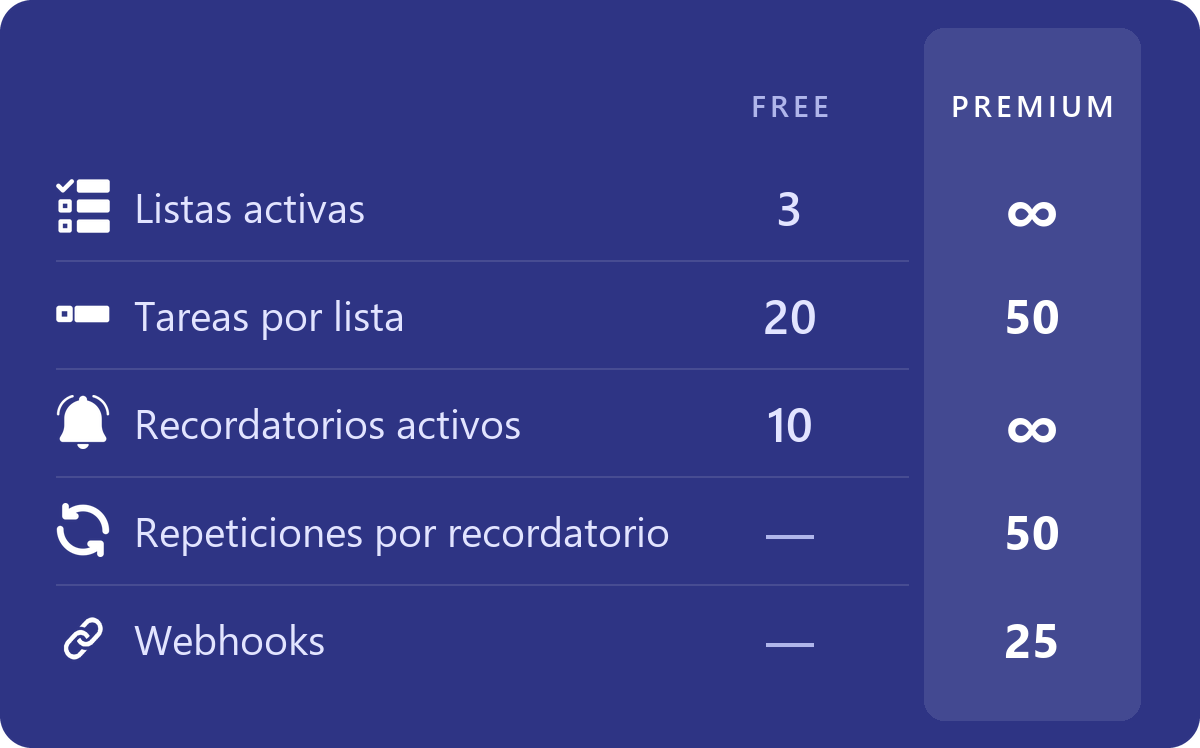
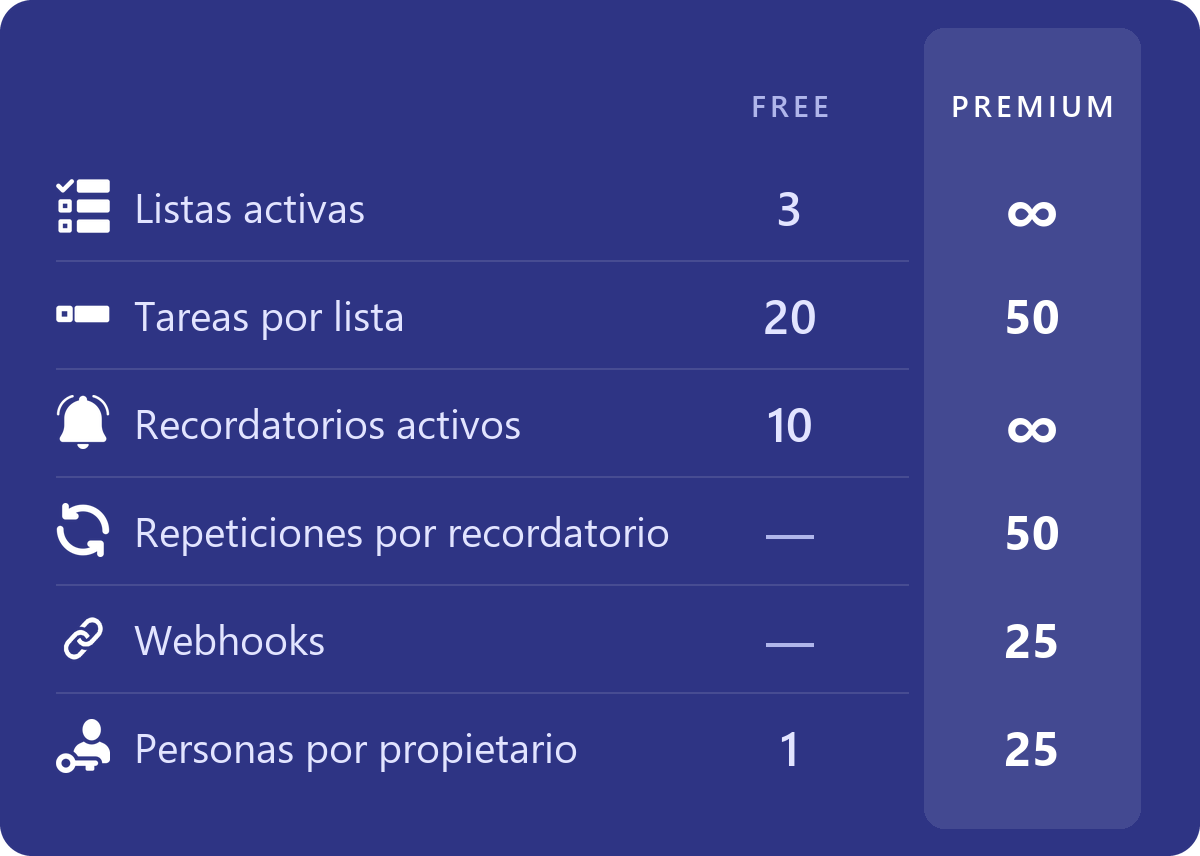
docs: l'owner può essere più persone, con un ruolo creato da TTM
Nella pagina del pannello due sezioni nuove. «Owner: a person, a role, or
several people»: cosa vuol dire ogni scelta, come si usa il menu (come
quello dei tag, modifica dal vivo compresa). «The roles TTM creates»: come
nascono (TTM1, TTM2…, menzionabili, senza permessi), che TTM non li
modifica mai, quando non sono più di TTM (rinominati, con un permesso anche
di canale, con altri membri), quando TTM li cancella, cosa serve (Manage
Roles, 250 ruoli per server).

Premium, beta, limiti noti, concetti, promemoria e release notes con il
nuovo limite; getting-started con il permesso Manage roles, che non si
concede per canale; invite con la maschera nuova. Privacy e GDPR con il
dato nuovo e quando TTM lo dimentica. Card Premium rigenerate con la riga
«persone per owner».

diff --git a/src/content/docs/the-task-list.md b/src/content/docs/the-task-list.md
@@ -92,7 +92,7 @@ The workflow is always the same: **turn a button blue or red, then pick the task
 | Button | Function | <span class="c-blue">Blue (edit)</span> | <span class="c-red">Red (delete)</span> |
 | :---: | :--- | :--- | :--- |
 | <img class="inline-ic" src="/icons/task.png" alt="" /> | **Content** | Change the task text (opens a form). | Delete the task. |
-| <img class="inline-ic" src="/icons/owner.png" alt="" /> | **Owner** | Set or change the task owner (pick a user/role). | Remove the owner. |
+| <img class="inline-ic" src="/icons/owner.png" alt="" /> | **Owner** | Set or change the task owner: one person, one role, or several people (see *Owner* below). | Remove the owner — and its reminder, which has no one left to reach. |
 | <img class="inline-ic" src="/icons/tag.png" alt="" /> | **Tag** | Set the users/roles to notify — pick several at once (see *Two ways to tag* below). | Remove every tag on the task. |
 | <img class="inline-ic" src="/icons/alertW.png" alt="" /> | **Reminder** | Add or edit a reminder (start date and time zone — plus interval and repetitions when recurring reminders are on: a Premium feature, switched on in [Configuration](/docs/configuration/#recurring-reminders)). | Remove the reminder. |
 | <img class="inline-ic" src="/icons/api.png" alt="" /> | **Webhook** | Associate a webhook, so completing/reopening the task fires an HTTP call. | Remove the webhook association from the task. |
@@ -119,14 +119,44 @@ Now the button stays active after each action, and what Tag does depends on one 
 
 <div class="callout"><div class="callout-t">In one line</div><strong>Off</strong>: tagging always overwrites, and you must pick people first. <strong>On</strong>: pick people first to <em>overwrite</em> (assign), or pick the task first to <em>edit its tags live</em>.</div>
 
+### Owner: a person, a role, or several people
+
+The owner is who a task belongs to — who can check it, and who gets its reminder. Pick it in the owner menu:
+
+- **One person** — they own the task, and its reminder reaches them by direct message.
+- **One role** — everyone with that role owns the task: any of them can check it, and its reminder is a message in the list's channel that mentions the role.
+- **Several people** — TTM creates a role for them, gives it to exactly those people and makes it the owner. From then on it works like any role owner. *Several people as owner is a Premium feature: on the Free plan the owner is one person or one role* (see [What Premium unlocks](/docs/premium/)).
+
+People and roles can't be mixed, and you can pick one role at most: a task has one owner.
+
+The owner menu works like the Tag menu (see *Two ways to tag* above). With "keep status" off, pick the owner, then the task. With it on, you can also **pick the task first**, with the menu empty: its owner loads into the menu — for a role TTM created, the people it gave the role to — and every change you confirm applies to that task straight away. Emptying the menu removes the owner — and its reminder — like the red mode does.
+
+### The roles TTM creates
+
+When you give a task to several people, TTM:
+
+- creates a role called **TTM** followed by the first free number — TTM1, TTM2, and so on — **mentionable** and **with no permissions**, at the bottom of the role list;
+- gives it to the people you picked, one at a time: with many people it can take a few seconds;
+- makes it the owner of the task.
+
+Rename it and it becomes one of your server's roles, to use anywhere. A new colour or a new position doesn't change that: TTM would still delete it when no list uses it any more — so to keep a role, rename it.
+
+**TTM never changes a role once it has created it.** Picking different people — one more, one less — creates a new role; picking exactly the same people as the current owner changes nothing. With "keep status" on, the same selection applied to several tasks in a row reuses the role it created for the first one.
+
+**When a role stops being TTM's.** TTM remembers the roles it creates and the people it gave them to. A role stays TTM's only while it still looks the way TTM left it: the same name, no permissions — neither on the server nor on a channel — and the same number of members. Rename it, give it a permission, use it to open a channel, or add or remove a member, and it becomes one of your server's roles. TTM looks when a role would be deleted, and when the owner menu loads its people: a role that's no longer TTM's is never deleted, and the menu shows the role instead of the people. TTM can see *how many* members a role has, but not *who* they are — so if you swap one member for another, it can't tell.
+
+**When TTM deletes a role.** A role TTM created is deleted — from the server, too — when **no list uses it any more**, as owner or as tag, nor any command permission, **and** it still looks TTM's. TTM checks every ten minutes, and never touches a role created less than ten minutes ago. The roles used by a **sealed** list are kept, because the sealed message still shows them, and when the bot is **removed** from a server, every role it created stays there.
+
+**What it needs.** The bot needs the *Manage Roles* permission, which the invite link includes; on a server that added the bot before, an admin may have to grant it to the bot's role, in *Server Settings → Roles* — not on a channel, where the same permission means something else. While the bot doesn't have it, TTM neither creates nor deletes roles. A server can have at most **250 roles** — a Discord limit: when it's reached, TTM can't create the role and says so.
+
 ## Confirming a tag selection — desktop vs mobile
 
-Only the **Tag** menu lets you pick several people at once, and **multi-select menus like this don't apply as you tick** — they wait for you to **confirm** the whole selection. (Single-choice pickers, such as the check selector or the owner menu, apply the moment you pick, so this doesn't concern them.) How you confirm a multi-pick differs by device, and it isn't obvious the first time:
+The **Tag** and **Owner** menus let you pick several at once, and **multi-select menus like these don't apply as you tick** — they wait for you to **confirm** the whole selection. (Single-choice pickers, such as the check selector, apply the moment you pick, so this doesn't concern them.) How you confirm a multi-pick differs by device, and it isn't obvious the first time:
 
 - **On mobile**, a **Save** button appears beneath the open menu. Tap it to apply what you picked.
 - **On desktop**, there is **no Save button**. Instead, **click anywhere outside the menu** to close it — closing it is what applies your selection. If your tags don't seem to take effect, this is almost always why: click away from the dropdown to commit them.
 
-This matters most during tag **live editing**, where each time you close the menu the task updates on the spot — so on desktop, one click outside the menu is what saves each change.
+This matters most during **live editing** of tags or owner, where each time you close the menu the task updates on the spot — so on desktop, one click outside the menu is what saves each change.
 
 ## Editing while others watch
 

diff --git a/src/pages/privacy.md b/src/pages/privacy.md
@@ -20,6 +20,7 @@ TTM only stores what is needed to run task lists inside your server:
 - **Reminders** — dates, intervals, repetitions and the time zone set for the server.
 - **Your personal time zone** — the time zone you pick while creating a reminder, stored against your Discord user ID and reused across servers.
 - **Your direct-message channel** — when you own a task, its reminders reach you by direct message, so the bot keeps the ID of its direct-message channel with you, to deliver them with a single request to Discord. If you don't accept direct messages, it also keeps until when not to try again (six hours after the failed attempt). Both are stored against your Discord user ID, like the time zone; the messages themselves are not stored.
+- **Roles TTM creates** — when a task is given to several people, TTM creates a role and keeps its ID, the name it gave it, the user IDs of the people it gave it to, who asked for it and when: to show those people when the task is edited, and to delete the role when no list uses it any more.
 - **Configuration** — per-server settings such as notification mode, history logging, push option and time zone.
 - **Webhooks** — the HTTP method, URL, headers and body you define, and their association to tasks.
 - **Activity logs** — records of actions performed on lists (who did what, and when), when history logging is enabled.
@@ -42,7 +43,7 @@ We do **not** sell your data. Data is processed by our infrastructure provider *
 
 Data is kept while the bot is present and in use in your server.
 
-**When the bot is removed from a server** we delete its content and operational data: task lists and their tasks, tags, reminders and scheduled reminder events, webhooks and their actions, and the activity history.
+**When the bot is removed from a server** we delete its content and operational data: task lists and their tasks, tags, reminders and scheduled reminder events, webhooks and their actions, the activity history, and the records of the roles TTM created — the roles themselves stay in the server, which manages them from then on.
 
 **What we keep** is the minimum needed to run the service and to measure its adoption: the server ID together with the settings configured for it, the dates the bot joined and left, the command-permission settings, subscription records where applicable, and non-identifying usage counters. **No task content is kept.**
 
@@ -52,7 +53,9 @@ Data is kept while the bot is present and in use in your server.
 
 **You can delete a single list yourself**, without asking us: the **Delete list** button in the list's *More* panel, or `/config lists` when the list's message is no longer there. Deletion is immediate and permanent, and it takes the list's tasks, owners, tags, reminders and activity history with it.
 
-**Seal list**, in the same panel, also removes the list's data from TTM, but leaves its message — and its timeline thread — in the channel as ordinary Discord messages, under your server's control.
+**Seal list**, in the same panel, also removes the list's data from TTM, but leaves its message — and its timeline thread — in the channel as ordinary Discord messages, under your server's control. The roles TTM created for that list stay too, and TTM forgets them.
+
+**A role TTM created** is forgotten — its record and the people it was given to — once no list uses it any more, as owner or as tag: if the role is still as TTM left it (the same name, no permissions, the same number of members), TTM also deletes it from the server; otherwise it leaves it to your server. TTM also forgets the roles of a list when you seal it, and all of them when the bot is removed from the server.
 
 You can request deletion at any time (see [GDPR](/gdpr/)); we may also delete data earlier.
 

diff --git a/src/content/docs/premium.md b/src/content/docs/premium.md
@@ -18,6 +18,7 @@ If you're here from the bot, start with [Free during the beta](/docs/beta/): it 
 | Active reminders | **10** | Unlimited |
 | Repetitions per reminder | — (single reminders only) | 50 |
 | Webhooks | — | 25 \* |
+| People per owner | **1** (a person or a role) | 25 \* |
 
 *These are the planned limits and may be tuned before launch.*
 
@@ -34,6 +35,8 @@ On the free tier the three places are fixed. A list takes one the first time som
 **Active reminders — 10 → unlimited.** Ten reminders *waiting at the same time* — not ten a day. A reminder stops counting the moment it has fired for the last time, so the slot comes back on its own; and a repeating reminder — like one set up during the beta — takes **one** slot, not one per repetition. Ten is plenty for deadlines that matter. It becomes the binding limit when reminders stop being exceptions and become the rhythm of the server — stand-ups, shift handovers, recurring checks on a dozen lists.
 
 **Repetitions per reminder — single only → up to 50.** On the free tier every reminder is a single event: it arrives once, at the time you choose. Recurring reminders — repetitions and an interval — are a Premium feature: one reminder can repeat up to 50 times after the first, a drumbeat for something that genuinely must not be missed. On Premium an admin still switches them on in [Configuration](/docs/configuration/#recurring-reminders), where they are off by default. Recurring reminders you already have, from the beta for example, keep firing on the free tier and stay editable: you can move them or lower their repetitions, not raise them. See [Reminders](/docs/reminders/).
+
+**People per owner — 1 → up to 25.** On the free tier a task's owner is one person, or one role of your server. On Premium you can pick several people as the owner: TTM creates a role for them, gives it to them and makes it the owner, so they can all check the task and its reminder mentions all of them in the list's channel. It is Premium because it costs Discord requests — one for the role, one for each person — and those come from the same budget as everything else the bot does. Up to 25, because that's as many as the owner menu lets you pick. How those roles are named, kept and deleted: [The roles TTM creates](/docs/the-task-list/#the-roles-ttm-creates).
 
 **Webhooks — none → up to 25.** Like recurring reminders, this row unlocks a *capability* rather than a bigger number. Webhooks let a completed task fire an HTTP call to anything you run: a deploy, a spreadsheet, a ticket system, your own service. It is the feature that turns TTM from a checklist into a piece of your workflow, and it's the main reason the paid plan exists. See [Webhooks](/docs/webhooks/).
 

diff --git a/src/content/docs/release-notes.md b/src/content/docs/release-notes.md
@@ -18,6 +18,7 @@ The debut of Team Tasks Manager under the **bitsplitters** banner. Highlights:
 - **Clean** removes the completed tasks after a confirmation that tells you how many they are, and that their reminders and tags go with them.
 - **Reopen all** brings every completed task back to to-do on the same message, keeping text, owners, tags and reminders. With **New date** the reminders move too: the first reminder in the calendar lands on the date you pick, the others follow at the same distance from it. No webhook is called.
 - **Seal list** keeps a list you are done with in the channel as a record — same contents, no buttons or menus, marked *Sealed list* — while its data leaves TTM, its reminders stop and it frees one of the places of your plan. The activity timeline stays. **Delete list** removes the list for good, reminders included. Both require *Manage messages* on the channel: the same permission that would let you delete the list's message by hand.
+- **Several people as owner** (Premium) — pick several people in the owner menu: TTM creates a role for them (TTM1, TTM2…), gives it to them and makes it the owner. It never changes the role afterwards, and deletes it when no list uses it any more and it's still as TTM left it. The owner menu also accepts roles, and works like the Tag menu. See [The roles TTM creates](/docs/the-task-list/#the-roles-ttm-creates).
 - **Only the owner checks a task** — a task with an owner can be checked or unchecked by the owner (or the members of the owner role) and by whoever has *Manage messages* on the channel; everyone else gets a private refusal. A task without an owner is open to anyone who can use the list.
 - **Every bulk update error at once** — when a bulk update can't be saved, one message lists all the problems: a list too long, too many tasks, and every reminder over the limits (recurring where it isn't allowed, repetitions over your plan, too many reminders waiting).
 - **`/config lists`** — the lists of the server, with one button per row that cycles through four states: grey does nothing, blue **regenerates**, green **seals**, red **deletes**. Mark several, press Apply, confirm once; the lists holding a place are marked *in use*. Regeneration republishes a list whose message was deleted by mistake — with the same contents, and **keeping its activity timeline** in the same thread.

diff --git a/src/content/docs/reminders.md b/src/content/docs/reminders.md
@@ -59,7 +59,7 @@ When the time comes, TTM reminds the task's owner, with the task, the date it wa
 
 If the owner doesn't accept direct messages from server members, or no longer shares a server with the bot, the DM can't be delivered. TTM remembers it and doesn't try that person again for **6 hours**; after that it tries again, and the first DM that gets through clears the note.
 
-A role is notified only if it can be mentioned: either the role allows it (*Server Settings → Roles*, the role can be @mentioned by anyone), or the bot has the *Mention @everyone, @here and All Roles* permission in the list's channel — the invite link grants it. Otherwise the reminder still appears in the channel, but nobody gets a notification; TTM tells you when you set the reminder or make the role the owner. For a task owned by **@everyone**, only the permission counts. If the role has been **deleted**, no reminder is sent at all: TTM tells you that too, and the fix is to choose another owner.
+A role is notified only if it can be mentioned: either the role allows it (*Server Settings → Roles*, the role can be @mentioned by anyone), or the bot has the *Mention @everyone, @here and All Roles* permission in the list's channel — the invite link grants it. Otherwise the reminder still appears in the channel, but nobody gets a notification; TTM tells you when you set the reminder or make the role the owner. For a task owned by **@everyone**, only the permission counts. A role TTM creates for several owners is born mentionable, so its reminders notify it even without that permission — unless someone turns the setting off. Either way, only the members who can see the list's channel are notified. If the role has been **deleted**, no reminder is sent at all: TTM tells you that too, and the fix is to choose another owner.
 
 If the task had no owner yet, whoever sets the reminder **becomes its owner** — a reminder always has someone to reach. Set a different owner with the **Owner** <img class="inline-ic" src="/icons/owner.png" alt="" /> button before or after creating the reminder.
 

diff --git a/src/content/docs/known-limits.md b/src/content/docs/known-limits.md
@@ -44,11 +44,15 @@ Repetitions are offered only on a plan that includes recurring reminders, and on
 
 **A person's reminders arrive by direct message**, so they depend on the owner's DM settings. If the owner doesn't accept direct messages from server members, or no longer shares a server with the bot, Discord refuses the message and that reminder doesn't arrive. TTM remembers it and doesn't try that person again for **6 hours**; after that it tries again, and the first DM that gets through clears the pause.
 
+**Roles TTM creates count toward Discord's 250 roles per server.** When several people own a task, TTM creates a role for them; at 250 roles it can't, and says so. It deletes the role when no list uses it any more and it's still as TTM left it — see [The roles TTM creates](/docs/the-task-list/#the-roles-ttm-creates).
+
+**TTM sees how many members a role has, not who they are.** Swap one member of a role TTM created for another and it can't tell: the owner menu keeps showing the people TTM gave the role to.
+
 **A role's reminder notifies only a role that can be mentioned.** When a task's owner is a role, the reminder is a message in the list's channel that mentions it. Discord turns that into a notification only if the role can be mentioned by anyone, or the bot has *Mention @everyone, @here and All Roles* in the channel; otherwise the message appears and nobody is notified. TTM warns you when you set up such a reminder. And only the members who can see the channel are notified — which, for a task on that list, is who you'd expect.
 
 ## Owners and tags
 
-Each task has **one owner** — a single user or role, the person responsible. A task can carry **up to 25 tags** (users or roles to notify): 25 is Discord's per-menu maximum for the tag picker.
+Each task has **one owner** — a person or a role; on Premium also up to 25 people, who share a role TTM creates for them (25 is the owner menu's maximum). A task can carry **up to 25 tags** (users or roles to notify): 25 is Discord's per-menu maximum for the tag picker.
 
 ## Webhooks
 

diff --git a/src/pages/gdpr.md b/src/pages/gdpr.md
@@ -30,7 +30,7 @@ Under the GDPR you have the right to:
 - **Objection** — object to processing based on legitimate interest.
 - **Withdraw consent** — where processing is based on consent, withdraw it at any time.
 
-Much of your data is also directly under your control inside Discord: editing or deleting tasks, reminders, webhooks and configuration removes them; **deleting a list** (the *Delete list* button in its *More* panel, or `/config lists`) removes that list with its tasks, reminders and history, and **sealing** it (*Seal list*, same panel) does the same while leaving its message in the channel; and **removing the bot from a server** deletes the lists, tasks, reminders, webhooks and history it holds. A few server-level records are kept — see [Retention](/privacy/#retention) in the Privacy Policy for the exact list, and for the data stored against your Discord user ID (your personal time zone and your direct-message channel with the bot), which removing the bot does not touch and which we delete on request.
+Much of your data is also directly under your control inside Discord: editing or deleting tasks, reminders, webhooks and configuration removes them; **deleting a list** (the *Delete list* button in its *More* panel, or `/config lists`) removes that list with its tasks, reminders and history, and **sealing** it (*Seal list*, same panel) does the same while leaving its message in the channel; and **removing the bot from a server** deletes the lists, tasks, reminders, webhooks and history it holds, and the records of the roles it created for tasks owned by several people (the roles stay in the server). A few server-level records are kept — see [Retention](/privacy/#retention) in the Privacy Policy for the exact list, and for the data stored against your Discord user ID (your personal time zone and your direct-message channel with the bot), which removing the bot does not touch and which we delete on request.
 
 ## How to exercise your rights
 

diff --git a/src/content/docs/getting-started.md b/src/content/docs/getting-started.md
@@ -28,9 +28,10 @@ The permissions TTM may use are:
 | Attach files | Provide the list download |
 | Read message history | Keep the list in sync |
 | Mention everyone | Notify the people you tag on a task, and the role that owns a task when its reminder comes due |
+| Manage roles | Create the role that makes several people the owner of a task (Premium) |
 | Use external emojis | Show the bot's own icons on buttons and lists |
 
-<div class="callout"><div class="callout-t">Good to know</div>You can grant these later from <em>Server Settings → Roles → Team Tasks Manager</em>, or per channel from the channel's permission settings.</div>
+<div class="callout"><div class="callout-t">Good to know</div>You can grant these later from <em>Server Settings → Roles → Team Tasks Manager</em>, or per channel from the channel's permission settings — except <em>Manage roles</em>, which works only on the bot's role, not per channel.</div>
 
 ## 2. Run a slash command
 

diff --git a/src/content/docs/beta.md b/src/content/docs/beta.md
@@ -22,7 +22,7 @@ When TTM leaves beta it becomes **freemium**. That word makes people nervous, so
 
 ## The free tier, after beta
 
-Three active lists, twenty tasks each, ten reminders waiting at a time — single ones, since recurring reminders are Premium — and no webhooks: enough for a small team to keep using TTM without ever paying. The full table — free limits, what Premium lifts, what each one changes day to day, and the planned price — lives on one page:
+Three active lists, twenty tasks each, ten reminders waiting at a time — single ones, since recurring reminders are Premium — one person or one role per owner, and no webhooks: enough for a small team to keep using TTM without ever paying. The full table — free limits, what Premium lifts, what each one changes day to day, and the planned price — lives on one page:
 
 **→ [What Premium unlocks](/docs/premium/)**
 

diff --git a/src/content/docs/core-concepts.md b/src/content/docs/core-concepts.md
@@ -34,7 +34,7 @@ A task **with an owner** can be flipped only by its owner — or the members of 
 
 These look similar but do different jobs:
 
-- **Owner** <img class="inline-ic" src="/icons/owner.png" alt="" /> — the person (or role) *responsible* for the task. One owner per task.
+- **Owner** <img class="inline-ic" src="/icons/owner.png" alt="" /> — the person (or role) *responsible* for the task. One owner per task — and it can be several people: TTM creates a role for them (see [The roles TTM creates](/docs/the-task-list/#the-roles-ttm-creates)).
 - **Tag** <img class="inline-ic" src="/icons/tag.png" alt="" /> — one or more users/roles *mentioned* on the task, e.g. people to notify when it is completed.
 
 ## Reminders
